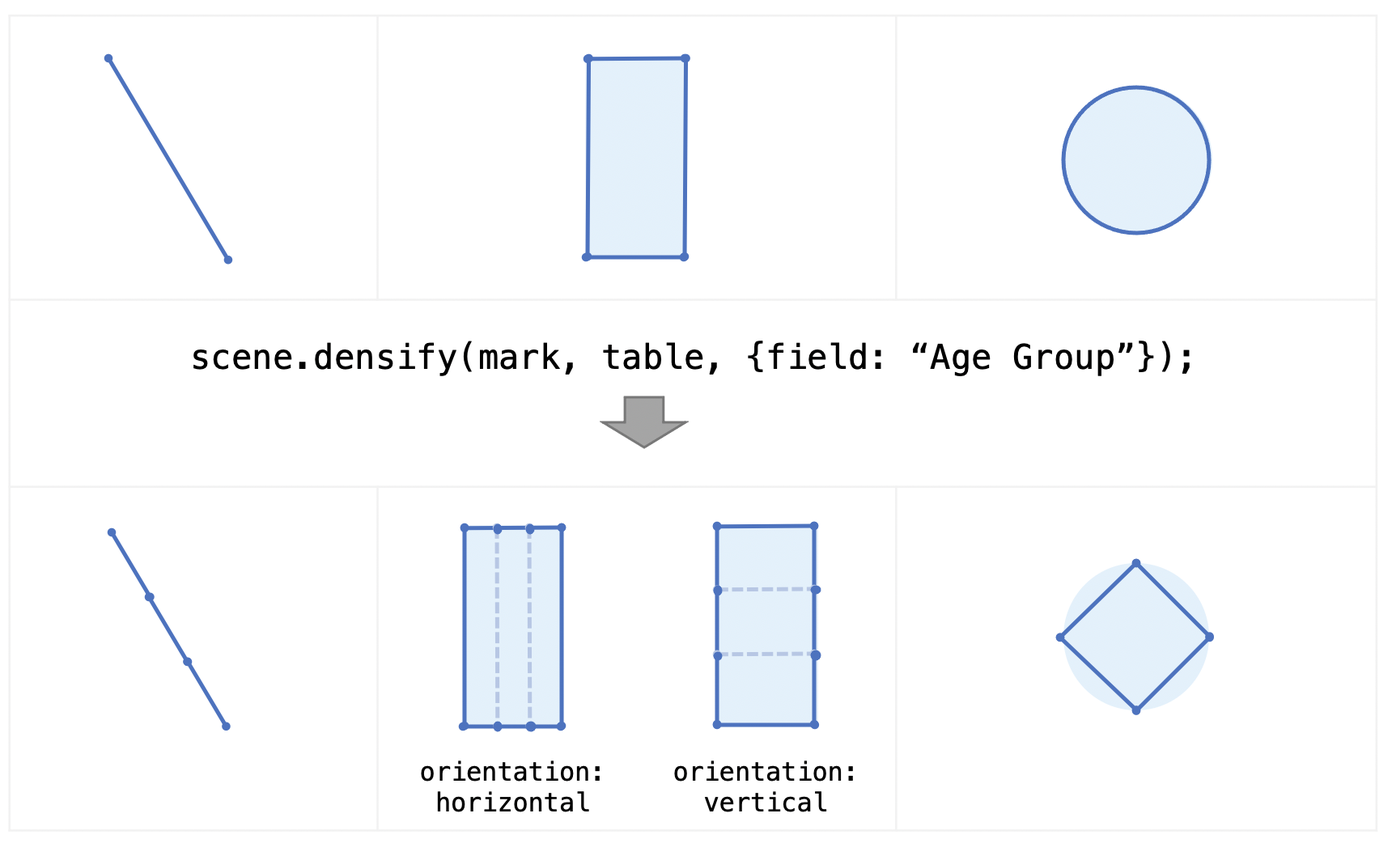
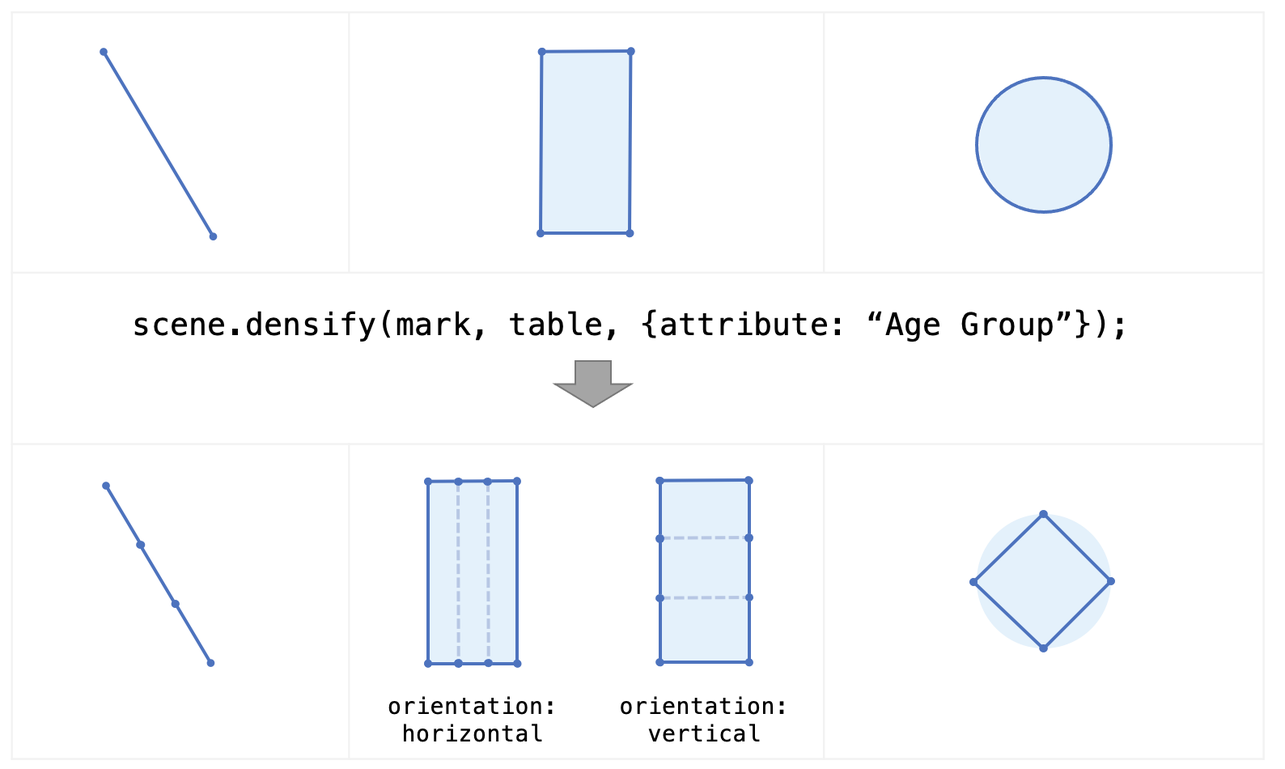
update to mascot v3

diff --git a/content/docs/group/scene.md b/content/docs/group/scene.md
@@ -46,9 +46,9 @@ The Scene class represents the top-level container in a visualization. This is w
 ### Methods: Join Graphics with Data
 | method |  explanation   | return type |
 | --- | --- | --- |
-| **repeat**(item, table, params)| [repeat](/tutorials/join/#repeat) a graphical object by a field<br>item ([Mark](../../marks/mark/) or [Group](../../group/group)): graphical object to be repeated<br>table ([DataTable](../../data/datatable/)): data table<br>params (Object, optional): containing one or more of the following: <br><ul><li>field (String): the field to repeat by, defaults to tuple ID</li><li>layout ([Layout](../../layout/layout)): the layout to arrange the repeated items</li></ul> | [Collection](../../group/collection/) |
-| **divide**(item, table, params)| [divide](/tutorials/join/#divide) a graphical object by a field<br>item ([Mark](../../marks/mark/) or [Group](../../group/group)): graphical object to be repeated<br>table ([DataTable](../../data/datatable/)): data table<br>params (Object, optional): containing one or more of the following: <br><ul><li>field (String): the field to divide by, defaults to tuple ID</li><li>orientation (String): the orientation to divde the item</li><li>layout ([Layout](../../layout/layout)): the layout to arrange the divided items</li></ul> | [Collection](../../group/collection/) |
-| **densify**(item, table, params)| [densify](/tutorials/join/#densify) a graphical object by a field<br>item ([Mark](../../marks/mark/) or [Group](../../group/group)): graphical object to be repeated<br>table ([DataTable](../../data/datatable/)): data table<br>params (Object, optional): containing one or more of the following: <br><ul><li>field (String): the field to densify by, defaults to tuple ID</li><li>orientation (String): the orientation to densify the item</li></ul> | [Path](../../marks/path/) |
+| **repeat**(item, table, params)| [repeat](/tutorials/join/#repeat) a graphical object by an attribute<br>item ([Mark](../../marks/mark/) or [Group](../../group/group)): graphical object to be repeated<br>table ([DataTable](../../data/datatable/)): data table<br>params (Object, optional): containing one or more of the following: <br><ul><li>attribute (String): the attribute to repeat by, defaults to tuple ID</li><li>layout ([Layout](../../layout/layout)): the layout to arrange the repeated items</li></ul> | [Collection](../../group/collection/) |
+| **divide**(item, table, params)| [divide](/tutorials/join/#divide) a graphical object by an attribute<br>item ([Mark](../../marks/mark/) or [Group](../../group/group)): graphical object to be repeated<br>table ([DataTable](../../data/datatable/)): data table<br>params (Object, optional): containing one or more of the following: <br><ul><li>attribute (String): the attribute to divide by, defaults to tuple ID</li><li>orientation (String): the orientation to divde the item</li><li>layout ([Layout](../../layout/layout)): the layout to arrange the divided items</li></ul> | [Collection](../../group/collection/) |
+| **densify**(item, table, params)| [densify](/tutorials/join/#densify) a graphical object by an attribute<br>item ([Mark](../../marks/mark/) or [Group](../../group/group)): graphical object to be repeated<br>table ([DataTable](../../data/datatable/)): data table<br>params (Object, optional): containing one or more of the following: <br><ul><li>attribute (String): the attribute to densify by, defaults to tuple ID</li><li>orientation (String): the orientation to densify the item</li></ul> | [Path](../../marks/path/) |
 | **attach**(item, table)| attach the entire table to a single graphical object,  <br>item ([Mark](../../marks/mark/) or [Group](../../group/group)): graphical object<br>table ([DataTable](../../data/datatable/)): data table<br> | void |
 {.table-striped}
 
@@ -56,22 +56,22 @@ The Scene class represents the top-level container in a visualization. This is w
 <span style="color:red">angle </span>
 | method |  explanation   | return type |
 | --- | --- | --- |
-| **encode**(item, params)| encode a field using a visual channel <br>item ([Mark](../../marks/mark/) or [Group](../../group/group)): an example item to be encoded <br>params (Object): contains the following [properties](../../encode/encoding/#properties) <ul><li>channel (String, required): [visual channel](../../global/constants/#channel)</li><li>field (String, required): data field</li><li>aggregator (String, optional): [aggregator](../../global/constants/#aggregator), defaults to "sum"</li><li>scale ([Scale](../../encode/scale/), optional): [scale](../../encode/scale/)</li><li>scaleType (String, optional): type of scale</li><li>flipScale (Boolean, optional): whether the scale is flipped,<br>defaults to false</li><li>includeZero (Boolean, optional): whether the scale domain includes 0, defaults to false</li><li>rangeExtent (Number, optional): range extent</li><li>mapping (Object, optional): user defined mapping</li><li>scheme (String, optional): color scheme</li><li>startAngle (Number): the start angle in degrees when binding to "angle", default to 90</li><li>angleDirection (String): the direction to encode angles,<br> default to "clockwise"</li></ul> | [Encoding](../../encode/encoding/) |
-| **encodeWithinCollection**<br>(item, params)| encode a field using a visual channel <br>item ([Mark](../../marks/mark/) or [Group](../../group/group)): an example item to be encoded <br>params (Object): contains the following contains the following [properties](../../encode/encoding/#properties) <ul><li>channel (String, required): [visual channel](../../global/constants/#channel)</li><li>field (String, required): data field</li><li>aggregator (String, optional): [aggregator](../../global/constants/#aggregator), defaults to "sum"</li><li>scale ([Scale](../../encode/scale/), optional): [scale](../../encode/scale/)</li><li>scaleType (String, optional): type of scale</li><li>invertScale (Boolean, optional): whether the scale is inverted,<br>defaults to false</li><li>includeZero (Boolean, optional): whether the scale domain includes 0, defaults to false</li><li>rangeExtent (Number, optional): range extent</li><li>mapping (Object, optional): user defined mapping</li><li>scheme (String, optional): color scheme</li><li>startAngle (Number): the start angle in degrees when binding to "angle", default to 90</li><li>angleDirection (String): the direction to encode angles,<br> default to "clockwise"</li></ul> | Array of [Encodings](../../encode/encoding/) |
+| **encode**(item, params)| encode an attribute using a visual channel <br>item ([Mark](../../marks/mark/) or [Group](../../group/group)): an example item to be encoded <br>params (Object): contains the following [properties](../../encode/encoding/#properties) <ul><li>channel (String, required): [visual channel](../../global/constants/#channel)</li><li>attribute (String, required): data attribute</li><li>aggregator (String, optional): [aggregator](../../global/constants/#aggregator), defaults to "sum"</li><li>scale ([Scale](../../encode/scale/), optional): [scale](../../encode/scale/)</li><li>scaleType (String, optional): type of scale</li><li>flipScale (Boolean, optional): whether the scale is flipped,<br>defaults to false</li><li>includeZero (Boolean, optional): whether the scale domain includes 0, defaults to false</li><li>rangeExtent (Number, optional): range extent</li><li>mapping (Object, optional): user defined mapping</li><li>scheme (String, optional): color scheme</li><li>startAngle (Number): the start angle in degrees when binding to "angle", default to 90</li><li>angleDirection (String): the direction to encode angles,<br> default to "clockwise"</li></ul> | [Encoding](../../encode/encoding/) |
+| **encodeWithinCollection**<br>(item, params)| encode an attribute using a visual channel <br>item ([Mark](../../marks/mark/) or [Group](../../group/group)): an example item to be encoded <br>params (Object): contains the following contains the following [properties](../../encode/encoding/#properties) <ul><li>channel (String, required): [visual channel](../../global/constants/#channel)</li><li>attribute (String, required): data attribute</li><li>aggregator (String, optional): [aggregator](../../global/constants/#aggregator), defaults to "sum"</li><li>scale ([Scale](../../encode/scale/), optional): [scale](../../encode/scale/)</li><li>scaleType (String, optional): type of scale</li><li>invertScale (Boolean, optional): whether the scale is inverted,<br>defaults to false</li><li>includeZero (Boolean, optional): whether the scale domain includes 0, defaults to false</li><li>rangeExtent (Number, optional): range extent</li><li>mapping (Object, optional): user defined mapping</li><li>scheme (String, optional): color scheme</li><li>startAngle (Number): the start angle in degrees when binding to "angle", default to 90</li><li>angleDirection (String): the direction to encode angles,<br> default to "clockwise"</li></ul> | Array of [Encodings](../../encode/encoding/) |
 {.table-striped}
 
 ### Methods: Create Guides
 | method |  explanation   | return type |
 | --- | --- | --- |
-| **axis**(channel, field, params)| create an [axis](../../guide/axis/) <br>channel (String): the visual channel<br>field (String): the data field<br>params (Object, optional): contains one or more of the [axis properties](../../guide/axis/#properties) | [Axis](../../guide/axis/) |
-| **legend**(channel, field, params)| create a [legend](../../guide/legend/) <br>channel (String): the visual channel<br>field (String): the data field<br>params (Object, optional): contains one or more of the [legend properties](../../guide/legend/#properties) | [Legend](../../guide/legend/) |
-| **gridlines**(channel, field, params)| create a set of [gridlines](../../guide/gridlines/)<br>channel (String): the visual channel<br>field (String): the data field<br>params (Object, optional): contains one or more of the [gridline properties](../../guide/gridlines/#properties) | [Gridlines](../../guide/gridlines/) |
+| **axis**(channel, attribute, params)| create an [axis](../../guide/axis/) <br>channel (String): the visual channel<br>attribute (String): the data attribute<br>params (Object, optional): contains one or more of the [axis properties](../../guide/axis/#properties) | [Axis](../../guide/axis/) |
+| **legend**(channel, attribute, params)| create a [legend](../../guide/legend/) <br>channel (String): the visual channel<br>attribute (String): the data attribute<br>params (Object, optional): contains one or more of the [legend properties](../../guide/legend/#properties) | [Legend](../../guide/legend/) |
+| **gridlines**(channel, attribute, params)| create a set of [gridlines](../../guide/gridlines/)<br>channel (String): the visual channel<br>attribute (String): the data attribute<br>params (Object, optional): contains one or more of the [gridline properties](../../guide/gridlines/#properties) | [Gridlines](../../guide/gridlines/) |
 {.table-striped}
 
 ### Methods: Manage and Manipulate Items
 | method |  explanation   | return type |
 | --- | --- | --- |
-| **classify**(items, field, parent)| group items by the specified field, items with the same field value <br>are put in the same collection <br>items (Array): an array of items <br>field (String): field to group by <br>parent ([Scene](../scene/) or [Collection](../../group/collection/)): parent of the resulting collections | Array of [Collections](../../group/collection/) |
+| **classify**(items, attribute, parent)| group items by the specified attribute, items with the same attribute value <br>are put in the same collection <br>items (Array): an array of items <br>attribute (String): attribute to group by <br>parent ([Scene](../scene/) or [Collection](../../group/collection/)): parent of the resulting collections | Array of [Collections](../../group/collection/) |
 | **find**(predicates)| returns graphical objects in the scene that match the specified criteria<br>predicates (Array): an array of [predicates](../../global/predicate/) | Array |
 |**setProperties**(item, params)| set the properties for all the peers of the specified item, return an object indicating setting each property is successful. <br>item ([Mark](../../marks/mark/) or [Group](../../group/group) or [Layout](../../layout/layout)): example item<br>params (Object): property names as object keys and property values as object values | {property: Boolean} |
 |**propagate**(item, method, ...params)| call the specified method for all the peers of the specified item<br>item ([Mark](../../marks/mark/) or [Group](../../group/group)): example item<br>method (String): name of the item's method<br>params: parameters of the item's method<br>e.g., `scene.propagate(path, "sortVertices", "x")` | void |
@@ -94,5 +94,5 @@ The Scene class represents the top-level container in a visualization. This is w
 | **removeAll**() | removes all the children from the group | void |
 | **getScene**() | returns the scene in which this group resides | [Scene](../../group/scene) |
 | **sortChildren**<br>(channel, reverse) | sort the children by a visual channel<br>channel (String): the channel to sort the children by<br> reverse: (Boolean, optional) setting to true will sort in descending order;<br>default is false. | void |
-| **sortChildrenByData**<br>(field, reverse, order) | sort the children by a data field<br>field (String): the data field to sort the children by<br>reverse (Boolean, optional): setting to true will sort in descending order;<br>default is false.<br>order (Array, optional): an array of field values in ascending order | void |
+| **sortChildrenByData**<br>(attribute, reverse, order) | sort the children by a data attribute<br>attribute (String): the data attribute to sort the children by<br>reverse (Boolean, optional): setting to true will sort in descending order;<br>default is false.<br>order (Array, optional): an array of attribute values in ascending order | void |
 {.table-striped}

diff --git a/content/tutorials/example/index.md b/content/tutorials/example/index.md
@@ -12,7 +12,7 @@ menu:
 weight: 5
 ---
 
-We start this tutorial by creating a diverging bar chart (Figure 1) using Mascot. This chart visualizes a hypothetical dataset reporting people’s opinions on a subject matter, broken down by age (below 30, 30 - 50, 50 - 70, above 70) and responses (strongly agree, agree, disagree, strongly disagree). You can see a demo of this visualization [here](/gallery.html#DivergingBarChart).
+We start this tutorial by creating a diverging bar chart (Figure 1) using Mascot. This chart visualizes a hypothetical dataset reporting people’s opinions on a subject matter, broken down by age (below 30, 30 - 50, 50 - 70, above 70) and responses (strongly agree, agree, disagree, strongly disagree). You can see a demo of this visualization on the [gallery page](/gallery/).
 
 {{< figure src="diverging_bar.png" width="800px" alt="Diverging Bar Chart" caption="Figure 1: Diverging Bar Chart" class="border-0 mx-auto text-center" >}}
 
@@ -21,7 +21,7 @@ Figure 2 shows the dataset "survey_response.csv" behind this visualization. The 
 {{< figure src="data.png" width="350px" alt="Survey Response Dataset" caption="Figure 2: survey_response.csv" class="border-0 mx-auto text-center" >}}
 
 ### Initialize Scene and Import Data
-To begin, we create a [scene](../../group/scene/), which represents a top-level container, and import the data: 
+To begin, we create a [scene](../../docs/group/scene/), which represents a top-level container, and import the data: 
 
 ```js
 let scn = msc.scene(), table = await msc.csv("survey_response.csv");
@@ -30,7 +30,7 @@ let scn = msc.scene(), table = await msc.csv("survey_response.csv");
 Next, let's create a rectangle in the scene and specify its properties: 
 
 ```js
-let rect = scn.mark("rectangle", {top: 100, left: 200, width: 700, 
+let rect = scn.mark("rect", {top: 100, left: 200, width: 700, 
                         height: 30, strokeWidth: 0, fillColor: "#ddd"});
 ```
 
@@ -45,11 +45,11 @@ Here we are creating a renderer that renders the scene to an SVG element with th
 ### Join Graphics with Data and Lay out Marks
 Next, we want to have multiple rectangles, each representing an age group. This is done by using the repeat method:
     
-    let collection = scn.repeat(rect, table, {field: "Age Group"});
+    let collection = scn.repeat(rect, table, {attribute: "Age Group"});
 
 This will give us a collection of four rectangles, each representing an age group in the dataset. By default, the repeated rectangles will have the same properties (including position) as the original rectangle. To space them out, we can apply a grid layout with only 1 column and a vertical gap of 10 pixels between the rows:
 
-    collection.layout = msc.layout("grid", {numCols: 1, vGap: 10});
+    collection.layout = msc.layout("grid", {numCols: 1, rowGap: 10});
 
 This gives us the following visualization: 
 
@@ -57,27 +57,26 @@ This gives us the following visualization:
 
 Next, we want to further break down each age group by responses. We can use the divide method:
 
-    let bars = scn.divide(rect, table, {field: "Response", orientation: "vertical"});
+    let {newBar, bars} = scn.divide(rect, table, {attribute: "Response", orientation: "horizontal"});
 
 which gives us the following visualization:
 
 {{< figure src="divide.png" width="350px" alt="Divide Rectangle Marks" caption="" class="border-0 mx-auto text-center" >}}
 
-When using the divide method, we don't need to pass all four rectangle marks as its argument; we only need to pass in one rectangle `rect` as an example, and Mascot will find all the "peers" of `rect` and perform divide operation on all of them. The divide method will return a collection of smaller rectangles (`bars`) as a result of dividing `rect`.
+When using the divide method, we don't need to pass all four rectangle marks as its argument; we only need to pass in one rectangle `rect` as an example, and Mascot will find all the "peers" of `rect` and perform divide operation on all of them. The divide method will return two visual elements as a result of dividing `rect`: a new bar (`newBar`) serving as an example of the new marks created, and a collection of new bars (`bars`) .
 
 
 ### Specify Visual Encodings
 
-Now we can map data fields to visual channels. First, let's map "Percentage" to the width of the rectangles. We need to reassign variable `rect` as one of the newly created marks and pass it as an example to the encode method:
+Now we can map data attributes to visual channels. First, let's map "Percentage" to the width of the rectangles. We need to pass the new bar mark as an example to the encode method:
 
-    rect = bars.firstChild;
-    scn.encode(rect, {field: "Percentage", channel:"width"});
+    scn.encode(newBar, {attribute: "Percentage", channel:"width"});
 
 And we can map "Response" to the fill color with a self-defined mapping:
 
     let colorMapping = {"Strongly agree": "#1e71b8", "Agree": "#7799cf", "Disagree": "#e29d6f",
                         "Strongly disagree": "#da7c43"};
-    scn.encode(rect, {field: "Response", channel: "fillColor", mapping: colorMapping});
+    scn.encode(newBar, {attribute: "Response", channel: "fillColor", mapping: colorMapping});
 
 
 Here's what we have after applying these encodings:
@@ -88,8 +87,8 @@ Here's what we have after applying these encodings:
 
 We want to align these bars to clearly show the divergence of opinions. To do so, we find all the light blue bars representing the response "Agree", and align them to the right:
 
-    let agreeBars = scn.find([{channel: "fillColor", value: "#7799cf"}]);
-    scn.align(agreeBars, "right");
+    let agreeBars = scn.findElements([{attribute: "Response", value: "Agree"}]);
+    scn.align(agreeBars, "x", "right");
 
 {{< figure src="align.png" width="400px" alt="Encode" caption="" class="border-0 mx-auto text-center" >}}
 
@@ -97,9 +96,9 @@ We can then create some text marks and affix them at the center of the rectangle
 
     let text = scn.mark("text", {fillColor: "white"});
     scn.repeat(text, dt);
-    scn.encode(text, {field: "Percentage", channel: "text"});
-    scn.affix(text, rect, "x");
-    scn.affix(text, rect, "y");  
+    scn.encode(text, {attribute: "Percentage", channel: "text"});
+    scn.affix(text, newBar, "x");
+    scn.affix(text, newBar, "y");  
 
 {{< figure src="text.png" width="420px" alt="Encode" caption="" class="border-0 mx-auto text-center" >}}
 
@@ -109,7 +108,7 @@ Finally, let's add a legend and an axis (labels only):
 
 ```js
 scn.legend("fillColor", "Response", {x: 800, y: 100});
-scn.axis("y", "Age Group", {orientation: "left", x: 190, pathVisible: false, tickVisible: false});
+scn.axis("y", "Age Group", {orientation: "left", titleVisible: false, pathVisible: false, tickVisible: false});
 ```
 
 Viola! We have the visualization in Figure 1.

diff --git a/content/tutorials/axis/index.md b/content/tutorials/axis/index.md
@@ -12,15 +12,15 @@ menu:
 weight: 70
 ---
 
-To create an axis, use the [_axis_ method in the Scene class](../../docs/group/scene/#methods-create-guides) with two required parameters: visual channel and data field. Mascot support creating an axis for the "x", "y", "width", "height" and "radialDistance" channels if these channels encode data values. In addition, an axis can be created for "x" and "y" channels if items are positioned using a grid layout. In the [diverging bar chart example](../example/), rows of stacked bars, each representing an age group, are laid out in a grid, so we can create an axis for the "y" channel using `scn.axis("y", "Age Group")`. 
+To create an axis, use the [_axis_ method in the Scene class](../../docs/group/scene/#methods-create-guides) with two required parameters: visual channel and data attribute. Mascot support creating an axis for the "x", "y", "width", "height" and "radialDistance" channels if these channels encode data values. In addition, an axis can be created for "x" and "y" channels if visual elements are positioned using a grid layout. In the [diverging bar chart example](../example/), rows of stacked bars, each representing an age group, are laid out in a grid, so we can create an axis for the "y" channel using `scn.axis("y", "Age Group")`. 
 
 The appearance of an axis can be customized by setting [its properties](../../docs/guide/axis/#properties): orientation, x/y coordinate, stroke color, text color, tick offset, tick size, tick values, tick anchor, the visibility of ticks and path, label offset, label format, label rotation, and the rotation of the entire axis. Mascot tries to automatically determine an axis' position based on the axis' orientation, channel and the bounding box of the marks/collections in a scene. For example, an x-axis for a scatter plot with the "bottom" orientation is by default placed at the bounding box of the scatter plot. You can override this default by setting the axis' "y" property. 
 
-In the case of small multiples, by default, Mascot will create an axis for the first item in the collection. For example, in the figure below, we have multiple area charts in a collection laid out in a 2x2 grid. There is only one x-axis and one y-axis if we call `scene.axis("x", "date", {orientation: "bottom", labelFormat: "%m/%y"})` and `scene.axis("height", "unemployments", {orientation: "left", labelFormat: ".2s"})`:
+<!-- In the case of small multiples, by default, Mascot will create an axis for the first item in the collection. For example, in the figure below, we have multiple area charts in a collection laid out in a 2x2 grid. There is only one x-axis and one y-axis if we call `scene.axis("x", "date", {orientation: "bottom", labelFormat: "%m/%y"})` and `scene.axis("height", "unemployments", {orientation: "left", labelFormat: ".2s"})`:
 
 {{< figure src="axis-sm.png" width="750px" alt="Multiple Area Charts" caption="" class="border-0 mx-auto text-center" >}}
 
-To add a set of axis for each area chart in the collection (assigned to the field `industries`), we can pass the area as an `item` parameter:
+To add a set of axis for each area chart in the collection (assigned to the attribute `industries`), we can pass the area as an `item` parameter:
 
     for (let area of industries.children){
         scene.axis("x", "date", {orientation: "bottom", labelFormat: "%m/%y", item: area});
@@ -31,11 +31,11 @@ which gives us the following visualization:
 
 {{< figure src="axis-sm-2.png" width="750px" alt="Multiple Area Charts" caption="" class="border-0 mx-auto text-center" >}}
 
-The `item` parameter must be the visual object whose visual channel encodes the data field. For example, in a line graph, the item is a vertex, not a path. 
+The `item` parameter must be the visual element whose visual channel encodes the data attribute. For example, in a line graph, the item is a vertex, not a path.  -->
 
-By default, a title is automatically created for an axis if the positions of marks/collections along the axis are determined by a visual encoding (i.e., a field is specified). A title will not be created if the positions of marks/collections along the axis are determined by a layout. You can force the title to be shown by setting the [showTitle parameter](../../docs/guide/axis/#properties).
+<!-- By default, a title is automatically created for an axis if the positions of marks/collections along the axis are determined by a visual encoding (i.e., an attribute is specified). A title will not be created if the positions of marks/collections along the axis are determined by a layout. You can force the title to be shown by setting the [showTitle parameter](../../docs/guide/axis/#properties). -->
 
 
-The creation of gridlines is simliar, we specify a visual channel and a data field when using the [_gridlines_ method in the Scene class](../../docs/group/scene/#methods-create-guides). The appearance of gridlines can be customized by setting [these properties](../../docs/guide/gridlines/#properties): x/y coordinate, text color, stroke color, stroke width and values.
+The creation of gridlines is simliar, we specify a visual channel and a data attribute when using the [_gridlines_ method in the Scene class](../../docs/group/scene/#methods-create-guides). The appearance of gridlines can be customized by setting [these properties](../../docs/guide/gridlines/#properties): x/y coordinate, text color, stroke color, stroke width and values.
 
-We can create a legend for color encodings involving the "fillColor" and "strokeColor" channels, using the [_legend_ method in the Scene class](../../docs/group/scene/#methods-create-guides). For categorical color encoding, a legend consists of a title (the field name) and a set of color-value pairs. For sequential color encoding, a legend consists of a title (the field name), a rectangle showing the color gradient, and a set of values indicating the gradient stops. It is recommended that you set the position of a legend through its ["x" and "y" properties](../../docs/guide/legend/#properties). 
+We can create a legend for color encodings involving the "fillColor" and "strokeColor" channels, using the [_legend_ method in the Scene class](../../docs/group/scene/#methods-create-guides). For categorical color encoding, a legend consists of a title (the attribute name) and a set of color-value pairs. For sequential color encoding, a legend consists of a title (the attribute name), a rectangle showing the color gradient, and a set of values indicating the gradient stops. It is recommended that you set the position of a legend through its ["x" and "y" properties](../../docs/guide/legend/#properties). 

diff --git a/content/tutorials/vom/index.md b/content/tutorials/vom/index.md
@@ -11,10 +11,10 @@ menu:
     parent: "tutorials"
 weight: 10
 ---
-Every visualization created using Mascot can be described as the composition of four types of semantic components: *visual object*, *layout*, *encoding & scale*, and *constraint*.
+Every visualization created using Mascot can be described as the composition of four types of semantic components: *visual element*, *layout*, *encoding & scale*, and *relational constraint*.
 
-### Visual Object
-Mascot.js provides abstractions for the following types of visual objects, starting from the lowest level of the scene graph hierarchy:
+### Visual Element
+Mascot.js provides abstractions for the following types of visual elements, starting from the lowest level of the scene graph hierarchy:
 
 - **Mark**: basic graphical element in a visualization. A mark can be a geometric shape (e.g., circle, polygon), a text element, or an image (e.g., an icon).
 
@@ -22,22 +22,22 @@ Mascot.js provides abstractions for the following types of visual objects, start
   
 - **Glyph**: a group of marks where all the marks inside the glyph represent the same item. In Figure 1(b), we have a box plot, where the main content is a collection of five glyphs. Each glyph consists of multiple marks (i.e., a rectangle and lines), and all the marks in each glyph depicting different attributes (e.g., max, min, 75th percentile) of the same data item (a pay grade)
   
-- **Reference Object**: axes and legends provide contextual information on how to read a visualization; gridlines facilitate reading and estimating data values in a visualization.
+- **Reference Element**: examples include axes and legends providing contextual information on how to read a visualization, and gridlines that facilitate reading and estimating data values in a visualization.
 
-- **Scene**: a self-contained view consisting of mark/glyph collections and reference objects like axes and legend.
+- **Scene**: a self-contained view consisting of mark/glyph collections and reference elements like axes and legend.
 
-Figure 1(c) shows how these visual objects are organized in a visualization. Note that a collection can be nested, e.g., the children of a collection are also collections.
+Figure 1(c) shows how these visual elements are organized in a visualization. Note that a collection can be nested, e.g., the children of a collection are also collections.
 
 {{< figure src="collection_glyph.png" alt="Visual Objects" width="850px" caption="Figure 1: (a) bar chart as a collection of bars, (b) glyphs in a box-and-whiskers plot, (c) object hierarchy" class="border-0 mx-auto text-center">}}
 
 
-### Parametric Layout
-The positions of visual objects in a collection are often determined by [parametric layouts](../../docs/layout/layout). For example, we can consider the rectangles in Figure 1(a) as laid out in a grid from left to right. Mascot currently supports four types of layout: grid, stack, packing, and treemap. Each layout has a number of parameters whose values can be adjusted. 
+### Algorithmic Layout
+The positions of visual elements in a collection are often determined by [algorithmic layouts](../../docs/layout/layout). For example, we can consider the rectangles in Figure 1(a) as laid out in a grid from left to right. Mascot currently supports four types of layout: grid, stack, packing, and treemap. Each layout has a number of parameters whose values can be adjusted. 
 
 ### Encoding & Scale
-A [visual encoding](../encode/) specifies the mapping between a visual channel and a data field. For example, In Figure 1(a), the height (visual channel) of each rectangle encodes sales value. Related to encoding is the [scale](../../docs/encode/scale) component, which specifies *how* the data values map to the properties of a visual channel. 
+A [visual encoding](../encode/) specifies the mapping between a visual channel and a data attribute. For example, In Figure 1(a), the height (visual channel) of each rectangle encodes sales value. Related to encoding is the [scale](../../docs/encode/scale) component, which specifies *how* the data values map to the properties of a visual channel. 
 
-### Constraint
+### Relational Constraint
 [Constraints](../constraints/) are requirements on the relative spatial arrangements of visual objects. For example, we can align visual objects to the left, or specify that the top left corner of a rectangle should always be 5 pixels apart from the bottom right corner of a text element.
 
 
@@ -47,9 +47,9 @@ A [visual encoding](../encode/) specifies the mapping between a visual channel a
 
 {{< figure src="diverging_bar.png" alt="a Diverging Bar Chart" width="700px" caption="" class="border-0 mx-auto text-center">}}
 
-In the diverging bar chart above, we have four top-level <span style="color:#956900">visual objects</span> in the scene: a legend, an axis with labels only, a collection of text elements, and a nested collection of rectangle marks. Inside the last collection, there are four collections of rectangles, each collection representing an age group and consisting of four rectangles. 
+In the diverging bar chart above, we have four top-level <span style="color:#956900">visual elements</span> in the scene: a legend, an axis with labels only, a collection of text elements, and a nested collection of rectangle marks. Inside the last collection, there are four collections of rectangles, each collection representing an age group and consisting of four rectangles. 
 
-The nested collection uses two <span style="color:#548235">parametric layouts</span>: a grid layout placing the rectangle collections in four rows with 10px gaps between them, and a stack layout within each collection of rectangles. 
+The nested collection uses two <span style="color:#548235">algorithmic layouts</span>: a grid layout placing the rectangle collections in four rows with 10px gaps between them, and a stack layout within each collection of rectangles. 
 
 There are three <span style="color:#4472C4">visual encodings</span> in this chart: the width of each rectangle encodes the percentage values, and the fill color encodes the response type. In addition, the content of each text element encodes the percentage values. 
 

diff --git a/content/tutorials/join/index.md b/content/tutorials/join/index.md
@@ -18,22 +18,22 @@ Mascot offers three primary operations to generate marks or glyphs by data: repe
 
 ### repeat
 
-The repeat operation applies to any mark or glyph, and replaces it with a [collection](../../docs/group/collection/) of marks/glyphs, each mark/glyph in the collection represents a unique value in the optional field parameter. In the figure below, we repeat a mark by the field "Age Group". There are four unique values in the field "Age Group", so we get a collection of four marks. If the field parameter is unspecified, a glyph is created for every tuple (row) in the data table. The generated marks are **peers** of each other. They have the same visual properties, including position and size, so these marks will overlap. The figure below is meant to show clearly the number of marks generated. It does not accurately reflect the positions of the generated marks. 
+The repeat operation applies to any mark or glyph, and replaces it with a [collection](../../docs/group/collection/) of marks/glyphs, each mark/glyph in the collection represents a unique value in the optional attribute parameter. In the figure below, we repeat a mark by the attribute "Age Group". There are four unique values in the attribute "Age Group", so we get a collection of four marks. If the attribute parameter is unspecified, a glyph is created for every item (row) in the data table. The generated marks are **peers** of each other. They have the same visual properties, including position and size, so these marks will overlap. The figure below is meant to show clearly the number of marks generated. It does not accurately reflect the positions of the generated marks. 
 
-All the tuples with the same field value are joined with each corresponding mark as its **data scope**. For example, the data scope of the first mark in the generated collection is the first four rows with "Age Group" equal to "Below 30". 
+All the items with the same attribute value are joined with each corresponding mark as its **data scope**. For example, the data scope of the first mark in the generated collection is the first four rows with "Age Group" equal to "Below 30". 
 
 {{< figure src="repeat.png" width="700px" alt="Repeat" caption="" class="border-0 mx-auto text-center" >}}
 
 
 ### divide
 
-The divide operation applies to a line, a circle or a rectangle only. It splits a mark into a [collection](../../docs/group/collection/) of smaller marks. These generated smaller marks are **peers** of each other.  The output depends on the mark type and the orientation parameter, as shown in the figure below.  For example, applying divide on a circle along the angular orientation produces a collection of pies, and along the radial orientation produces a collection of rings. The graphics-data joining mechanism is similar to that of the repeat operation: tuples sharing the same field value are assigned as the **data scope** of each corresponding mark in the output collection.
+The divide operation applies to a line, a circle or a rectangle only. It splits a mark into a [collection](../../docs/group/collection/) of smaller marks. These generated smaller marks are **peers** of each other.  The output depends on the mark type and the orientation parameter, as shown in the figure below.  For example, applying divide on a circle along the angular orientation produces a collection of pies, and along the radial orientation produces a collection of rings. The graphics-data joining mechanism is similar to that of the repeat operation: items sharing the same attribute value are assigned as the **data scope** of each corresponding mark in the output collection.
 
 {{< figure src="divide.png" width="680px" alt="Divide" caption="" class="border-0 mx-auto text-center" >}}
 
 ### densify
 
-The densify operation adds vertices along the border of a mark, and replaces curve segments with line segments.  A line, for example, is replaced by a [polyline](../../docs/marks/path/); a rectangle is replaced by an [area mark](../../docs/marks/areapath), and a circle is replaced by a standard [polygon](../../docs/marks/polygonpath/). The generated vertices are **peers** of each other.  The graphics-data joining mechanism is similar to that of the repeat and divide operations. Each vertex has a **data scope** that represents a unique value in the field parameter. The number of vertices in the output polyline and polygon marks is equal to the number of unique field values; the number of vertices in the output area mark is twice the number of unique field values, as both of the parallel segments of a rectangle are densified.
+The densify operation adds vertices along the border of a mark, and replaces curve segments with line segments.  A line, for example, is replaced by a [polyline](../../docs/marks/path/); a rectangle is replaced by an [area mark](../../docs/marks/areapath), and a circle is replaced by a standard [polygon](../../docs/marks/polygonpath/). The generated vertices are **peers** of each other.  The graphics-data joining mechanism is similar to that of the repeat and divide operations. Each vertex has a **data scope** that represents a unique value in the attribute parameter. The number of vertices in the output polyline and polygon marks is equal to the number of unique attribute values; the number of vertices in the output area mark is twice the number of unique attribute values, as both of the parallel segments of a rectangle are densified.
 
 {{< figure src="densify.png" width="700px" alt="Divide" caption="" class="border-0 mx-auto text-center" >}}
 

diff --git a/content/tutorials/constraints/index.md b/content/tutorials/constraints/index.md
@@ -12,13 +12,13 @@ menu:
 weight: 60
 ---
 
-So far we have seen how we can specify the positions of visual objects using [layout](../../tutorials/layout/) and [encoding](../../tutorials/encode/), one more method is to use constraints. 
+So far we have seen how we can specify the positions of visual elements using [layout](../../tutorials/layout/) and [encoding](../../tutorials/encode/), one more method is to use constraints. 
 
-Mascot currently supports two kinds of constraints: [align and affix](../../docs/group/scene/#methods-specify-constraints). The _align_ constraint applies to an array of visual objects, and moves the objects so that their bounding boxes have the same value at a specified [anchor](../../docs/global/constants/#anchor). The figure below illustrates alignment constraints in the "y" direction with different anchor parameters.
+Mascot currently supports two kinds of constraints: [align and affix](../../docs/group/scene/#methods-specify-constraints). The _align_ constraint applies to an array of visual elements, and moves the elements so that their bounding boxes have the same value at a specified [anchor](../../docs/global/constants/#anchor). The figure below illustrates alignment constraints in the "y" direction with different anchor parameters.
 
 {{< figure src="align.png" width="800px" alt="Alignment Constraint" caption="" class="border-0 mx-auto text-center">}}
 
 
-The _affix_ constraint specifies the relative positioning between an object _i_ and a base object along the "x" or "y" direction. When such a constraint is applied, the base object's position remains unchanged, and object _i_'s position is changed to satisfy the constraint. The figure below illustrates affix constraints in the "x" direction with different [anchor](../../docs/global/constants/#anchor) and offset parameters. If the object and the base object have peers that are generated using repeat, divide or densify, these peers will be taken care automatically. 
+The _affix_ constraint specifies the relative positioning between an element _i_ and a base element along the "x" or "y" direction. When such a constraint is applied, the base element's position remains unchanged, and element _i_'s position is changed to satisfy the constraint. The figure below illustrates affix constraints in the "x" direction with different [anchor](../../docs/global/constants/#anchor) and offset parameters. If the element and the base element have peers that are generated using repeat, divide or densify, these peers will be taken care automatically. 
 
 {{< figure src="affix.png" width="750px" alt="Affix Constraint" caption="" class="border-0 mx-auto text-center">}}

diff --git a/content/tutorials/encode/index.md b/content/tutorials/encode/index.md
@@ -12,13 +12,13 @@ menu:
 weight: 50
 ---
 
-Visual encodings specify how the values in a data field map to the properties of a visual channel. To specify a visual encoding, we need an example mark/glyph/collection, a data field, and a visual channel: 
+Visual encodings specify how the values in a data attribute map to the properties of a visual channel. To specify a visual encoding, we need an example mark/glyph/collection, a data attribute, and a visual channel: 
 
 ```js
-scene.encode(rect, {field: "Percentage", channel: "width"});
+scene.encode(rect, {attribute: "Percentage", channel: "width"});
 ```
 
-Mascot will automatically create a [scale](../../docs/encode/scale/) based on the provided parameters, the [type](../../docs/global/constants/#data-type) and value distribution of the data field, and the [type](../../docs/global/constants/#channel) and current values of the visual channel. 
+Mascot will automatically create a [scale](../../docs/encode/scale/) based on the provided parameters, the [type](../../docs/global/constants/#data-type) and value distribution of the data attribute, and the [type](../../docs/global/constants/#channel) and current values of the visual channel. 
 
 ### Scale Type
 
@@ -26,7 +26,7 @@ Mascot will automatically create a [scale](../../docs/encode/scale/) based on th
 
 The following describes the heuristics for automatically choosing the scale type based on an encoding specification:
 
-| field type | channel | scale type |
+| attribute type | channel | scale type |
 | --- | --- | --- |
 | integer or number | "width", "height", "x", "y", "angle", "radialDistance", "radius" | linear |
 | date | "width", "height", "x", "y", "radialDistance", "radius"  | time |

diff --git a/content/tutorials/instruction/index.md b/content/tutorials/instruction/index.md
@@ -20,7 +20,7 @@ Add the following code to the &lt;head&gt; element in your HTML document:
 <script src="https://mascot-vis.github.io/dist/mascot-min.js"></script>
 ```
 
-[Download a demo web app](https://mascot-vis.github.io/sampleWebApp.zip) showing how to use Mascot.js to create a multi-line graph chart. 
+[**Download a demo web app**](https://mascot-vis.github.io/sampleWebApp.zip) showing how to use Mascot.js to create a multi-line graph chart. 
 
 ### Using Mascot.js in an ES6 module
 To get the latest version, include "mascot-vis" as a dependency in your package.json file, or do:

diff --git a/content/tutorials/layout/index.md b/content/tutorials/layout/index.md
@@ -27,6 +27,6 @@ A layout can only be applied to a collection:
 You can also pass a layout as an argument when performing [repeat](../../docs/group/scene/#methods-join-graphics-with-data) or [divide](../../docs/group/scene/#methods-join-graphics-with-data) operations:
 
 ```js
-scene.divide(rect, table, {field: "col", layout: tl});
+scene.divide(rect, table, {attribute: "col", layout: tl});
 ```
 

diff --git a/content/tutorials/mark/index.md b/content/tutorials/mark/index.md
@@ -1,5 +1,5 @@
 ---
-title: "3. Create and Render Glyphs"
+title: "3. Create and Render Marks/Glyphs"
 description: ""
 lead: ""
 date: 2020-10-13T15:21:01+02:00
